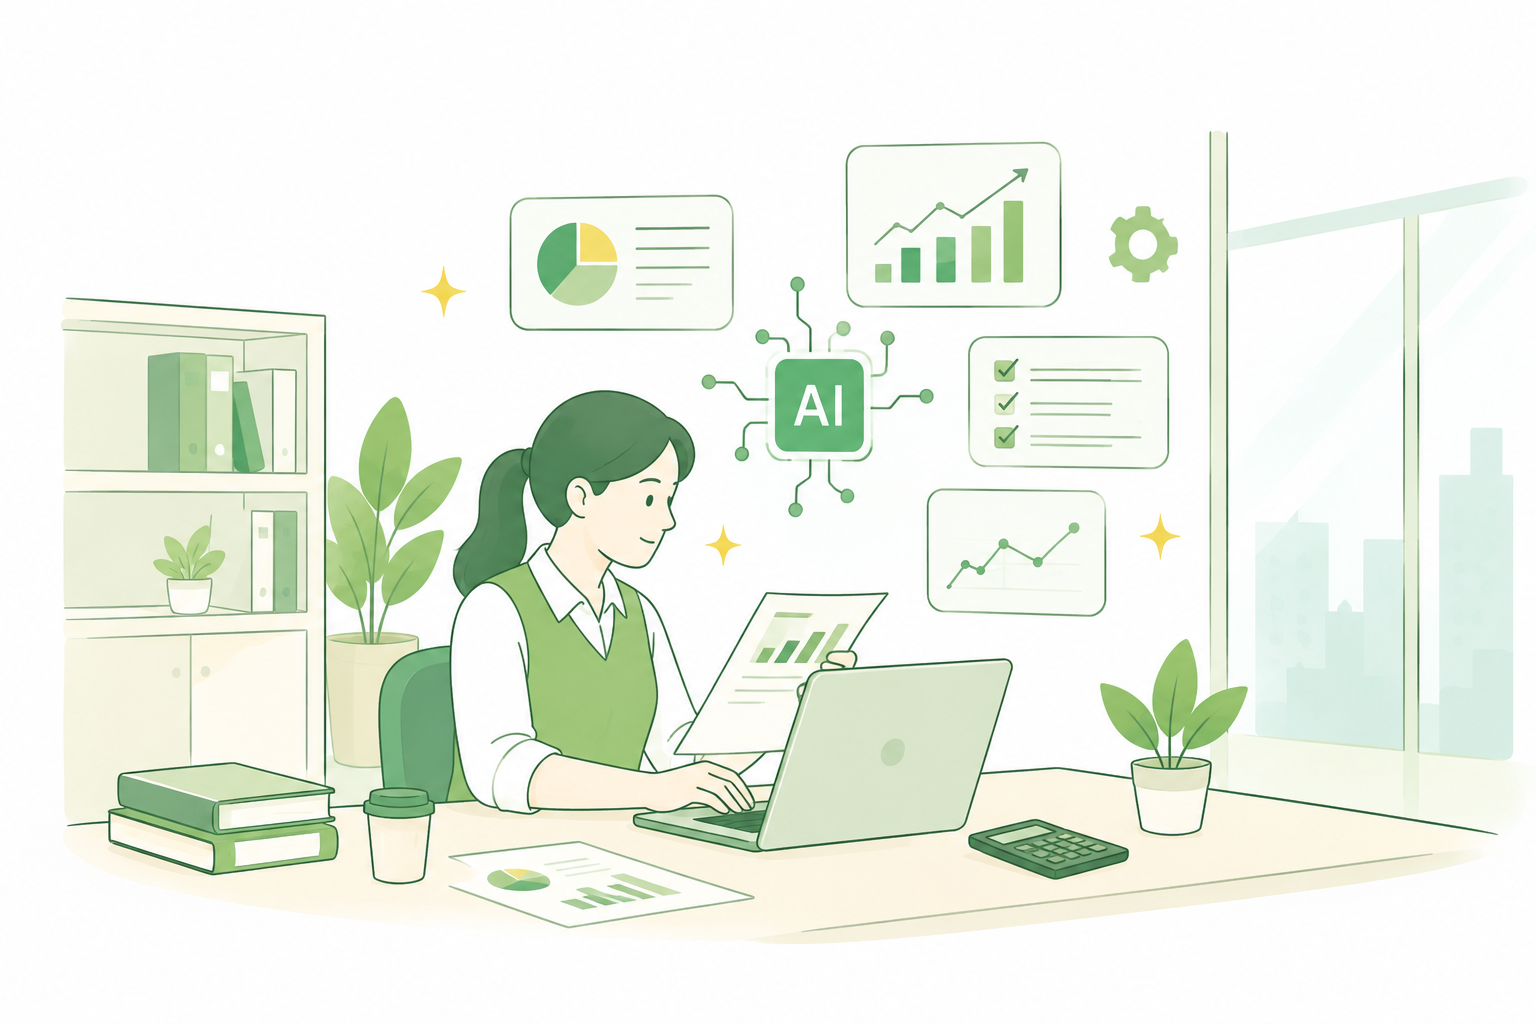
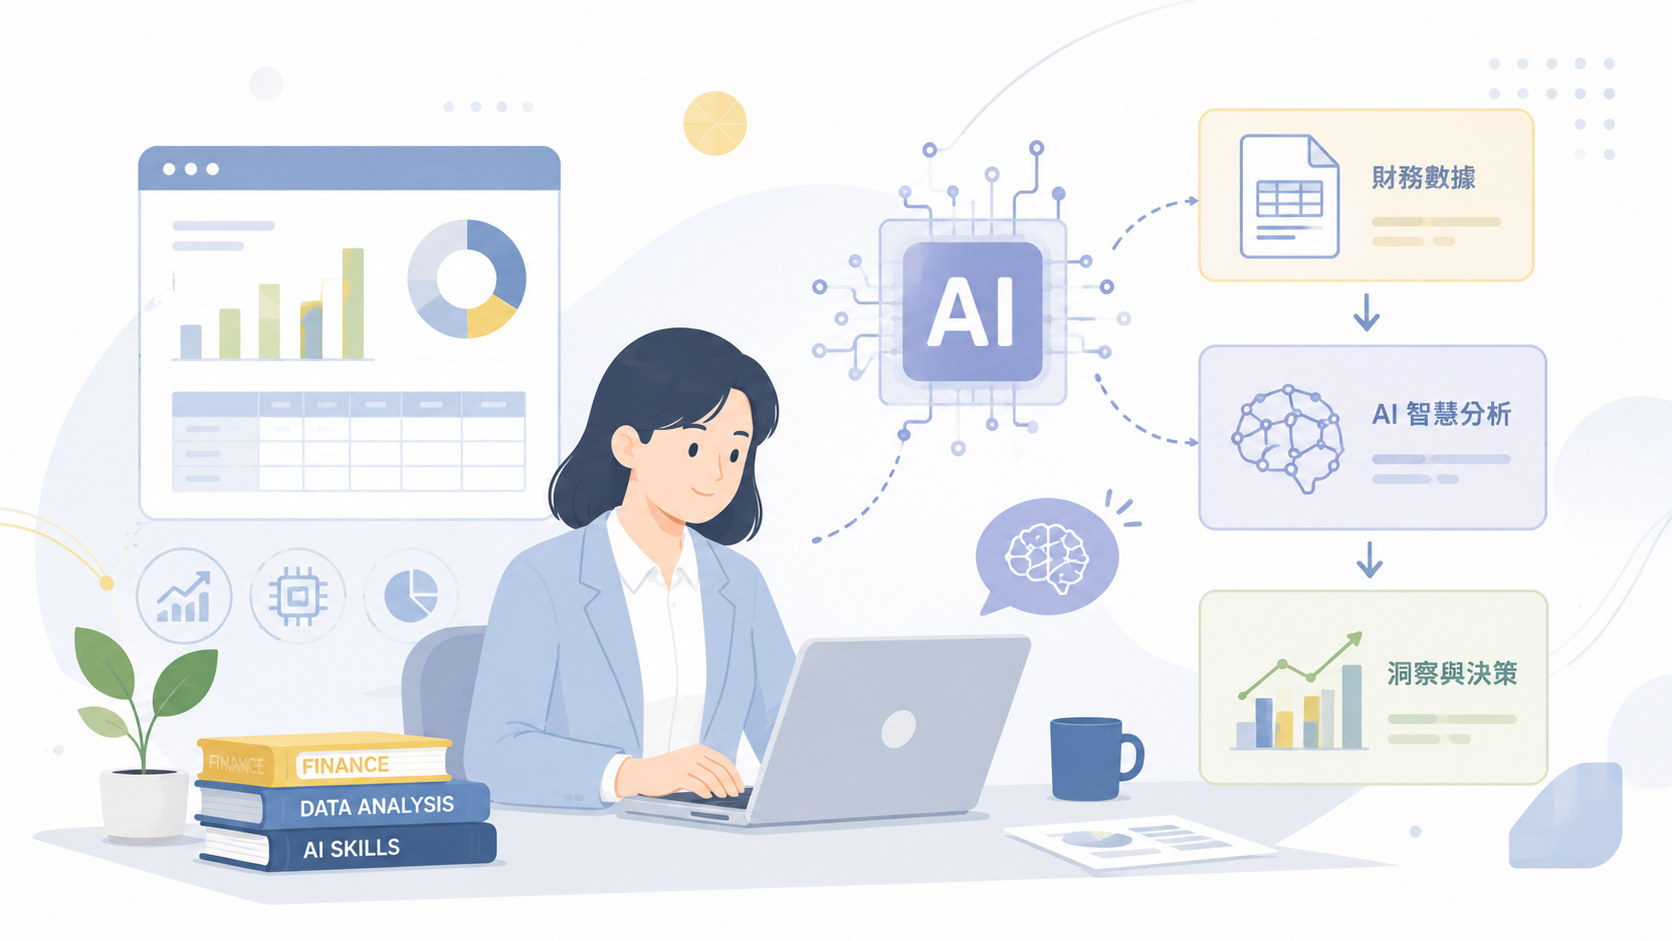
更換講座與培訓資源三張縮圖
新圖為 16:9（1672x941），與 .resource-thumb 的 aspect-ratio 一致，
不再像舊的 3:2 圖需要裁掉上下。

第 2、3 張依內容對調：原 -2 畫的是 AI 財務分析、-3 畫的是碳管理，
與卡片主題相反。現在卡片 2（碳健檢人才培訓）搭碳管理圖，
卡片 3（財會人員 AI 培訓）搭 AI 圖。

原始 PNG 每張約 1.1MB，縮至 1200px 寬並轉為 JPEG 後約 115KB；
未壓縮版本比照既有慣例存放於 images/original/。

檔名沿用舊的，故在三個 <img> 加上 ?v=2 避開瀏覽器快取，
並在 README 的快取版號章節補上圖片這一項。

同時移除兩個未被引用的殘留圖示 SVG。

diff --git a/index.html b/index.html
@@ -163,7 +163,7 @@
     <a class="resource-row reveal reveal-delay-1" href="https://cdriview.cdri.org.tw/portal/11/Article/PC/153" target="_blank">
       <div class="resource-thumb">
         <!-- alt 留空：插畫為裝飾性，連結文字已由右側標題表達 -->
-        <img src="./images/Lecture%20and%20training%20resources-1.jpg" alt="" loading="lazy" decoding="async">
+        <img src="./images/Lecture%20and%20training%20resources-1.jpg?v=2" alt="" loading="lazy" decoding="async">
       </div>
       <div class="resource-text">
         <h3>綠色永續金融講座</h3>
@@ -179,7 +179,7 @@
     <a class="resource-row reveal reveal-delay-2" href="https://cdriview.cdri.org.tw/portal/11/Article/PC/39" target="_blank">
       <div class="resource-thumb">
         <!-- alt 留空：插畫為裝飾性，連結文字已由右側標題表達 -->
-        <img src="./images/Lecture%20and%20training%20resources-2.jpg" alt="" loading="lazy" decoding="async">
+        <img src="./images/Lecture%20and%20training%20resources-2.jpg?v=2" alt="" loading="lazy" decoding="async">
       </div>
       <div class="resource-text">
         <h3>碳健檢服務人才培訓課程</h3>
@@ -195,7 +195,7 @@
     <a class="resource-row reveal reveal-delay-3" href="https://www.smeaiclass.org.tw/" target="_blank">
       <div class="resource-thumb">
         <!-- alt 留空：插畫為裝飾性，連結文字已由右側標題表達 -->
-        <img src="./images/Lecture%20and%20training%20resources-3.jpg" alt="" loading="lazy" decoding="async">
+        <img src="./images/Lecture%20and%20training%20resources-3.jpg?v=2" alt="" loading="lazy" decoding="async">
       </div>
       <div class="resource-text">
         <h3>財會人員AI培訓課程</h3>

diff --git a/README.md b/README.md
@@ -62,6 +62,8 @@ python3 -m http.server 8000
 
 **只要動到 `style.css` 就把 `v=40` 加一；只要動到 `main.js` 就把 `v=34` 加一。**
 
+**換圖片但沿用相同檔名時同理**——要把該 `<img>` 的 `?v=` 加一（講座三張縮圖目前是 `?v=2`）。若是換成不同檔名則不需要，新檔名本身就會避開快取。
+
 漏掉的話，回訪的使用者瀏覽器會繼續用快取裡的舊檔，你會看到「我明明改了怎麼沒變」——這是這個專案最容易踩的坑。
 
 ---
